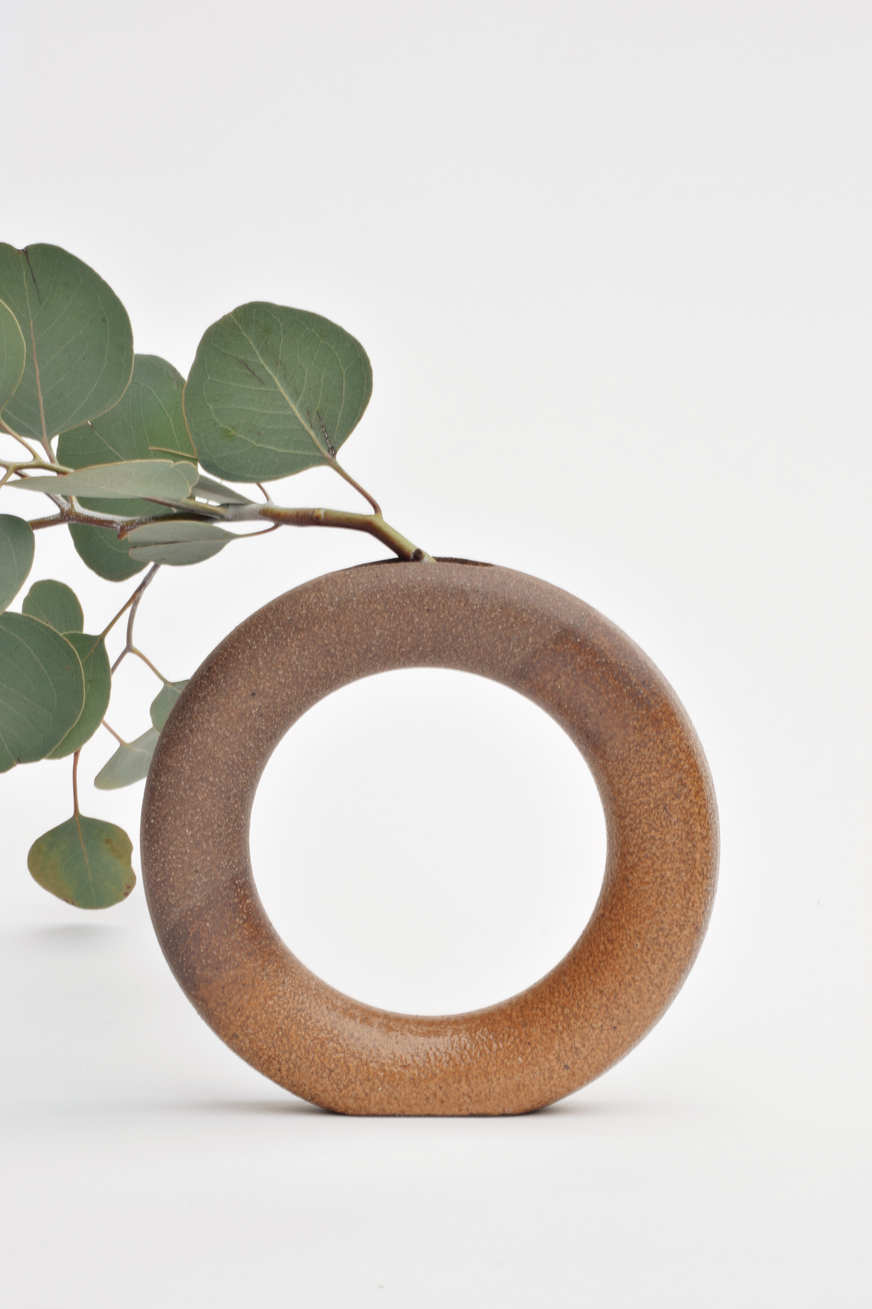
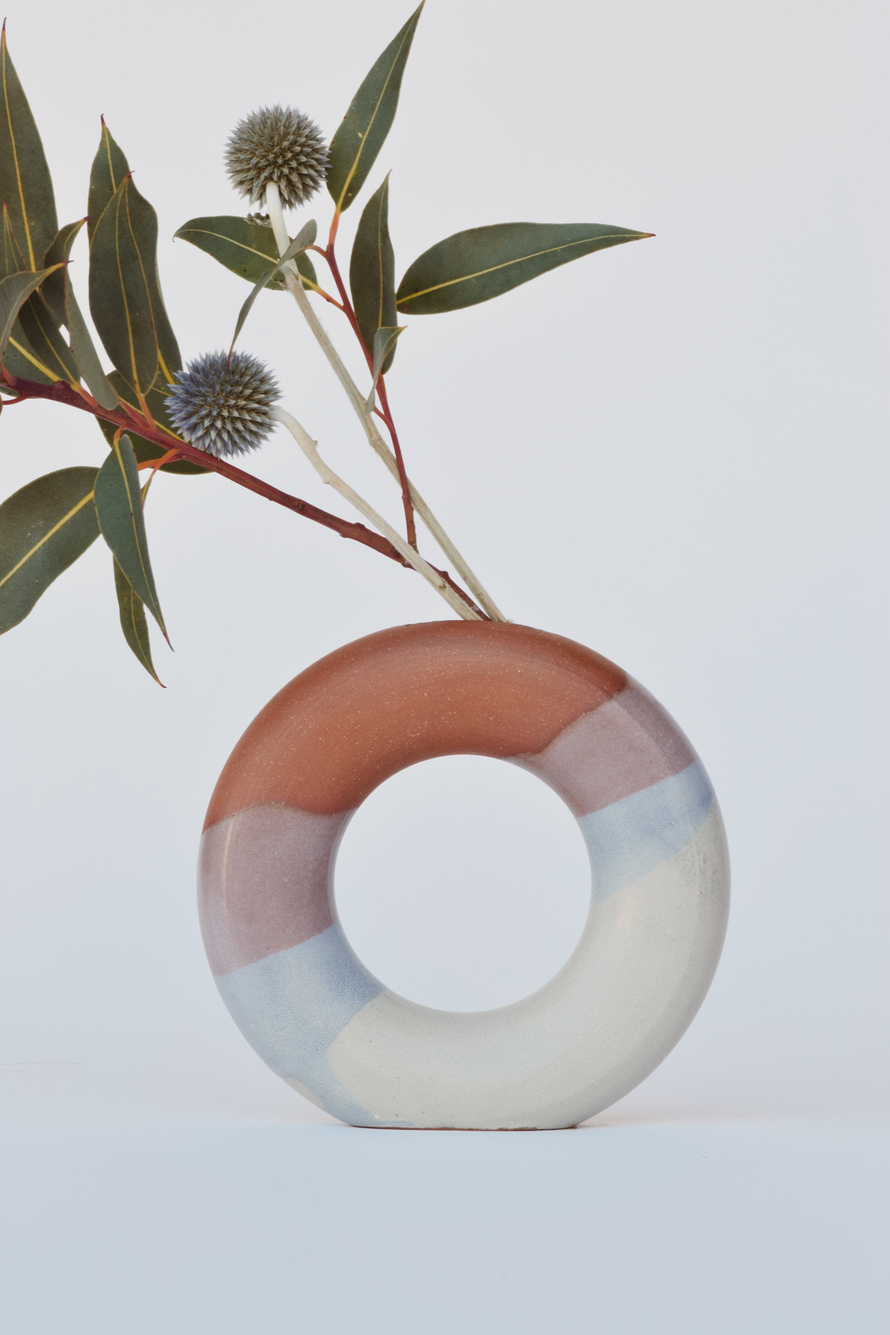
Update images on home and shop page

diff --git a/src/pages/shop.js b/src/pages/shop.js
@@ -40,7 +40,7 @@ class Shop extends React.Component<Props> {
               const title = get(node, 'frontmatter.title') || node.fields.slug;
               const image = get(node, 'frontmatter.image');
               const imgSrc = require(
-                  `./../pages${node.frontmatter.path}${image[0].src}.jpg`,
+                  `./../pages${node.frontmatter.path}default.jpg`,
               );
 
               return (

diff --git a/src/components/layout.css b/src/components/layout.css
@@ -108,7 +108,7 @@ a:hover {
 }
 
 .coming-soon {
-  background-image: url("../images/pottery-2.jpg");
+  background-image: url("../images/home-background.jpeg");
   background-repeat: no-repeat;
   background-size: cover;
   background-position: center center;
